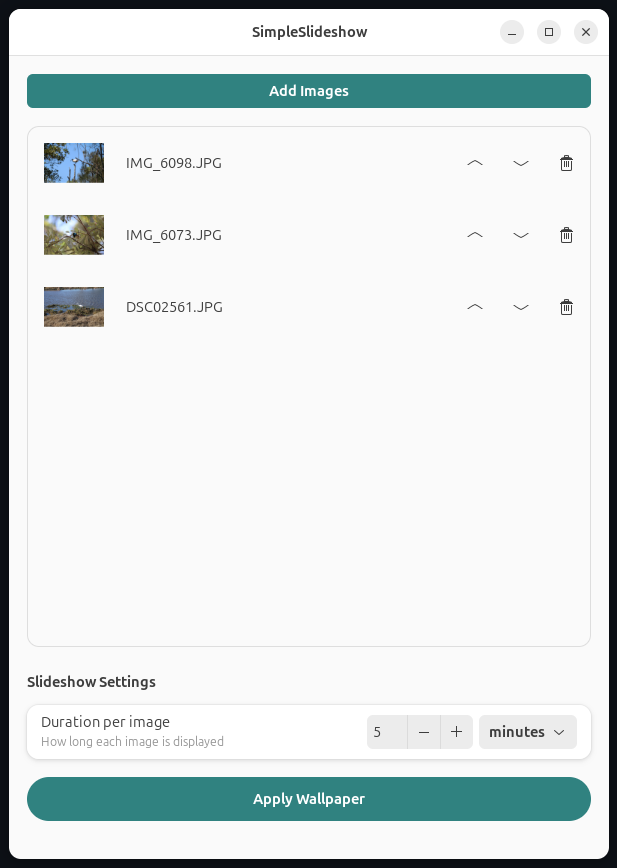
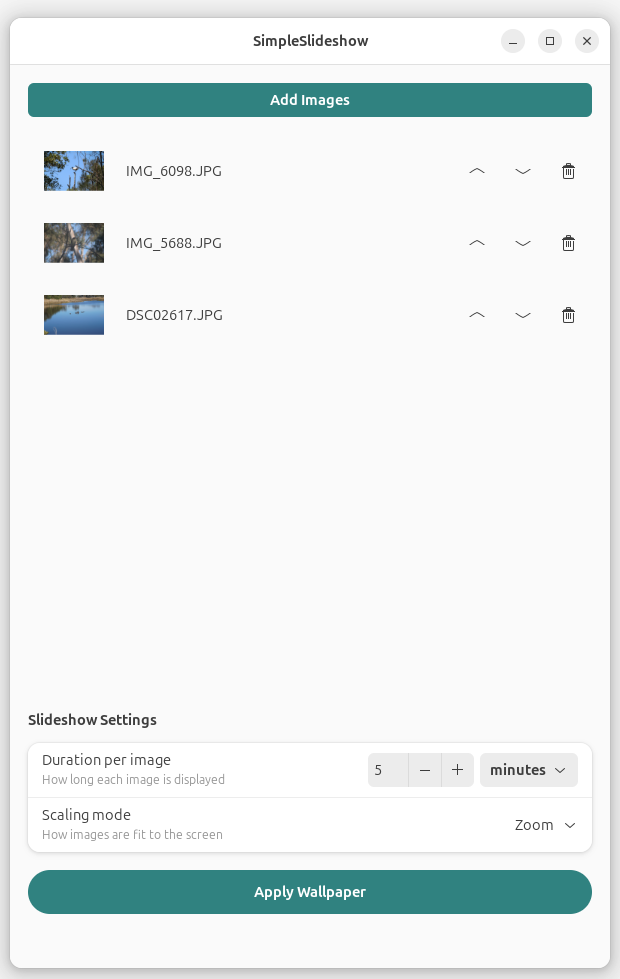
update readme

diff --git a/simpleslideshow.py b/simpleslideshow.py
@@ -1,10 +1,4 @@
 #!/usr/bin/env python3
-"""
-SimpleSlideshow - A simple GNOME wallpaper slideshow configurator.
-
-Dependencies (Ubuntu/Debian):
-    sudo apt install python3-gi gir1.2-gtk-4.0 gir1.2-adw-1
-"""
 
 import subprocess
 import xml.etree.ElementTree as ET
@@ -23,14 +17,14 @@ from gi.repository import Adw, Gdk, GdkPixbuf, Gio, GLib, GObject, Gtk
 APP_ID = "com.github.simpleslideshow"
 APP_NAME = "SimpleSlideshow"
 
-# Wallpaper scaling options: (gsettings_value, display_name, description)
+# Wallpaper scaling options: (gsettings_value, display_name)
 SCALING_OPTIONS = [
-    ("zoom", "Zoom", "Fill screen, may crop edges"),
-    ("scaled", "Scaled", "Fit to screen, may show borders"),
-    ("stretched", "Stretched", "Stretch to fill, may distort"),
-    ("centered", "Centered", "Center at original size, no scaling"),
-    ("wallpaper", "Tiled", "Tile the image repeatedly"),
-    ("spanned", "Spanned", "Span across multiple monitors"),
+    ("zoom", "Zoom"),
+    ("scaled", "Scaled"),
+    ("stretched", "Stretched"),
+    ("centered", "Centered"),
+    ("wallpaper", "Tiled"),
+    ("spanned", "Span Monitors"),
 ]
 
 # Directories for GNOME wallpaper configuration
@@ -55,7 +49,7 @@ class ScalingOption(GObject.Object):
 
     @GObject.Property(type=str, nick="display-text")
     def display_text(self) -> str:
-        return f"{self._name} - {self._description}"
+        return self._name
 
 
 class ImageRow(Gtk.Box):
@@ -195,13 +189,10 @@ class WallpapererWindow(Adw.ApplicationWindow):
         scaling_row = Adw.ComboRow(
             title="Scaling mode", subtitle="How images are fit to the screen"
         )
-        scaling_model = Gio.ListStore.new(ScalingOption)
-        for value, name, desc in SCALING_OPTIONS:
-            scaling_model.append(ScalingOption(value, name, desc))
+        scaling_names = [name for _, name in SCALING_OPTIONS]
+        scaling_model = Gtk.StringList.new(scaling_names)
         scaling_row.set_model(scaling_model)
-        scaling_row.set_expression(
-            Gtk.PropertyExpression.new(ScalingOption, None, "display-text")
-        )
+        scaling_row.set_selected(0)  # Default to first option (Zoom)
         self.scaling_row = scaling_row
         settings_group.add(scaling_row)
 
@@ -386,8 +377,10 @@ class WallpapererWindow(Adw.ApplicationWindow):
 
     def get_selected_scaling(self) -> str:
         """Get the selected scaling option value."""
-        selected = self.scaling_row.get_selected_item()
-        return selected.value if selected else "zoom"
+        selected_index = self.scaling_row.get_selected()
+        if selected_index < len(SCALING_OPTIONS):
+            return SCALING_OPTIONS[selected_index][0]  # Return the gsettings_value
+        return "zoom"  # Default fallback
 
     def generate_properties_xml(self):
         """Generate the background properties XML to register with GNOME."""

diff --git a/README.md b/README.md
@@ -1,8 +1,8 @@
 # SimpleSlideshow
 
-A simple application to create and configure desktop wallpaper slideshowson Ubuntu/GNOME. Select images, set duration and timing, and apply.
+An app to create and configure desktop wallpaper slideshows on Ubuntu/GNOME. Select images then set the duration, timing and image scaling.
 
-I created this because I couldn't find an easy way to set up a wallpaperslideshow. It's mostly written with Claude.
+I created this because I couldn't find an easy way to set up a wallpaper slideshow. It's mostly written with Claude.
 
 It has been tested on Ubuntu 24.04.
 
@@ -29,8 +29,3 @@ It generates GNOME-compatible XML configuration files:
 
 See the details of these files at:
 https://help.ubuntu.com/community/SlideshowWallpapers
-
-## TODOs
-
-- not showing image thumbnails in picker
-- warnings in logs
